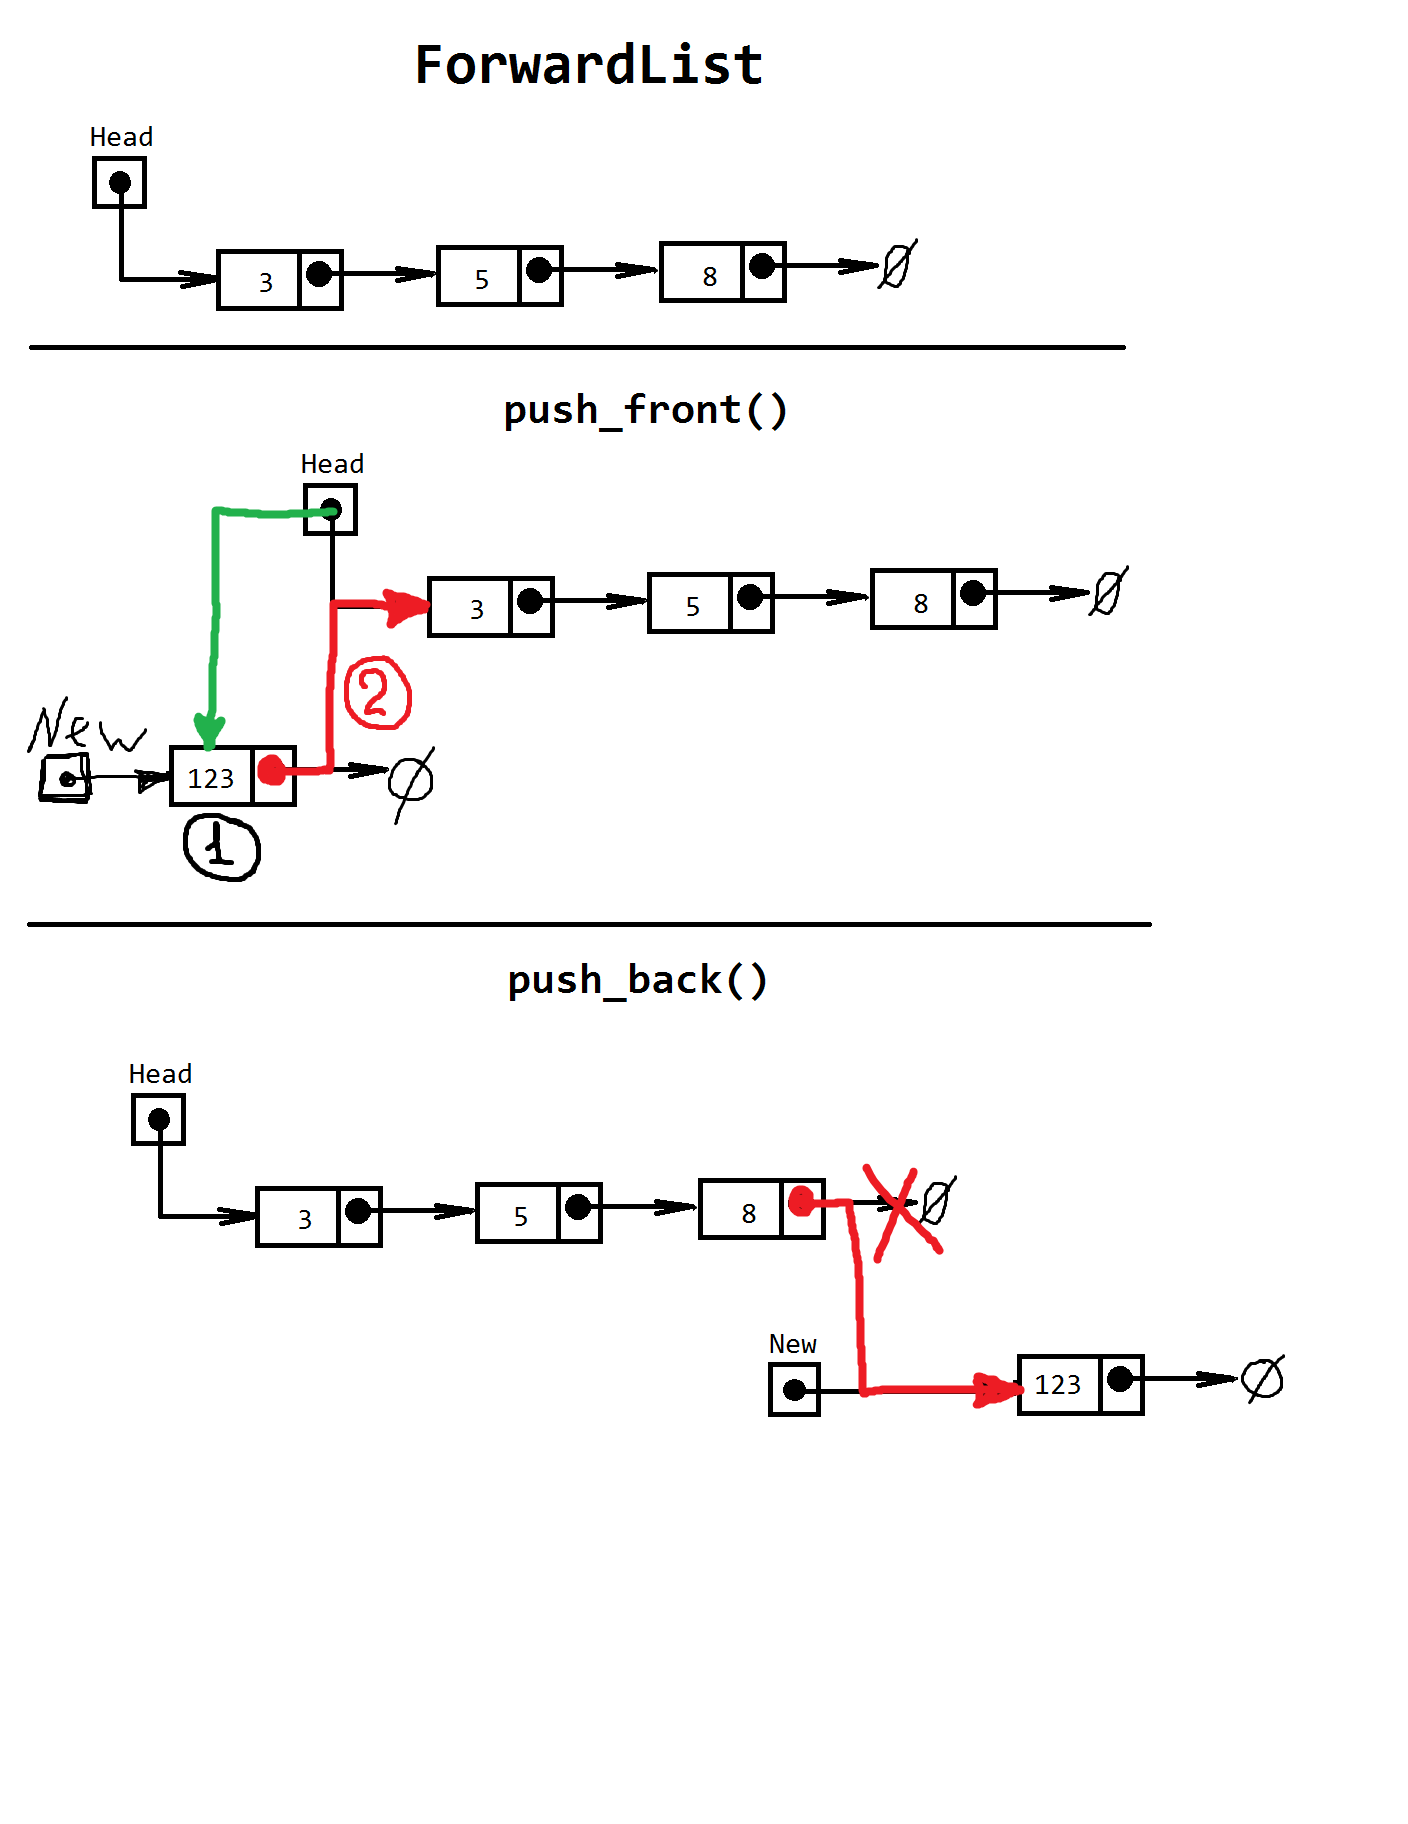
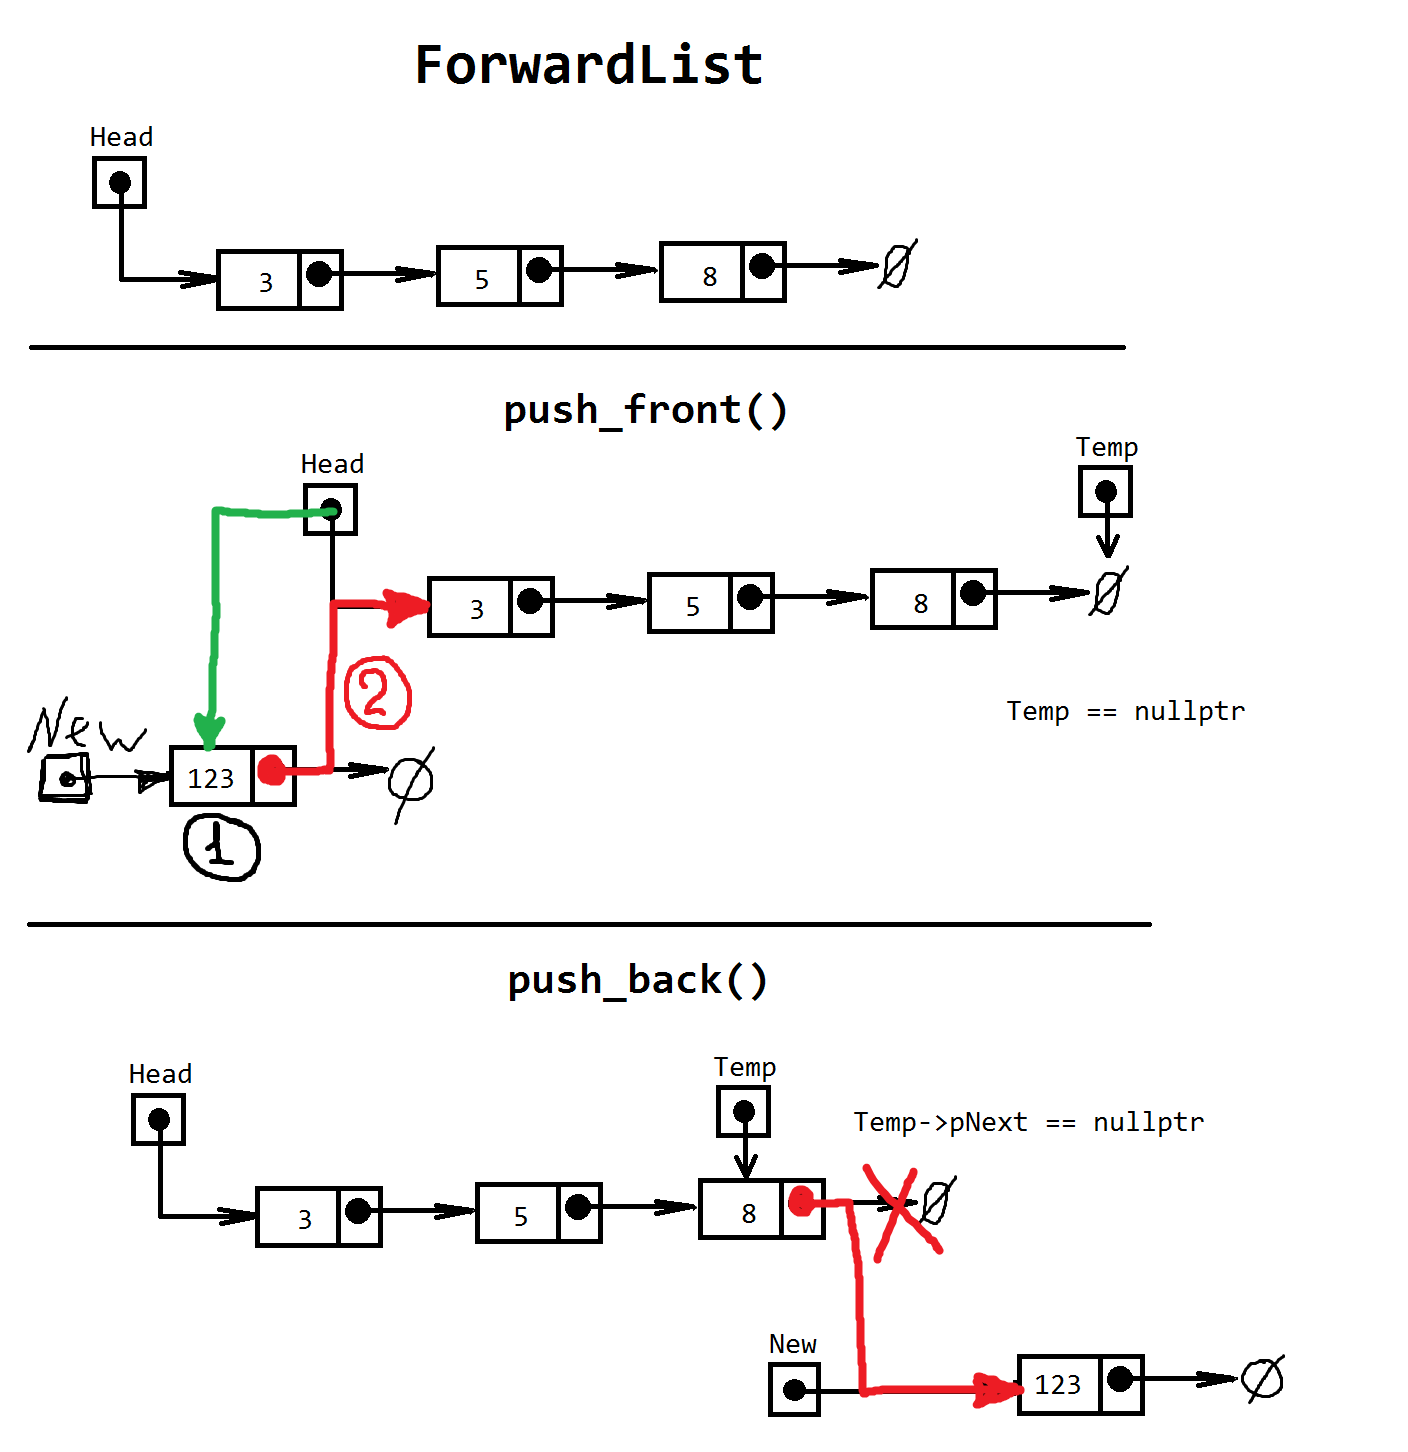
pop_back() DONE

diff --git a/DataContainers/ForwardList/main.cpp b/DataContainers/ForwardList/main.cpp
@@ -47,7 +47,32 @@ public:
 	}
 	void push_back(int Data)
 	{
-		
+		if (Head == nullptr)return push_front(Data);
+		//1) Создаем новый элемент:
+		Element* New = new Element(Data);
+		//2) Дойти до конца скписка:
+		Element* Temp = Head;
+		while (Temp->pNext)Temp = Temp->pNext;
+		//3) Присоединяем новый элемент к списку:
+		Temp->pNext = New;
+	}
+
+	//				Removing elements:
+	void pop_front()
+	{
+		//1) Запоминаем адрес удаляемого элемента;
+		Element* erased = Head;
+		//2) Исключаем элемент из списка:
+		Head = Head->pNext;
+		//3) Удаляем элемент из памяти
+		delete erased;
+	}
+	void pop_back()
+	{
+		Element* Temp = Head;
+		while (Temp->pNext->pNext)Temp = Temp->pNext;
+		delete Temp->pNext;
+		Temp->pNext = nullptr;
 	}
 
 	//				Methods:
@@ -73,7 +98,11 @@ void main()
 	ForwardList list;	//Односвязный список list
 	for (int i = 0; i < n; i++)
 	{
-		list.push_front(rand() % 100);
+		//list.push_front(rand() % 100);
+		list.push_back(rand() % 100);
 	}
+	list.print();
+	list.pop_front();
+	//list.pop_back();
 	list.print();
 }
